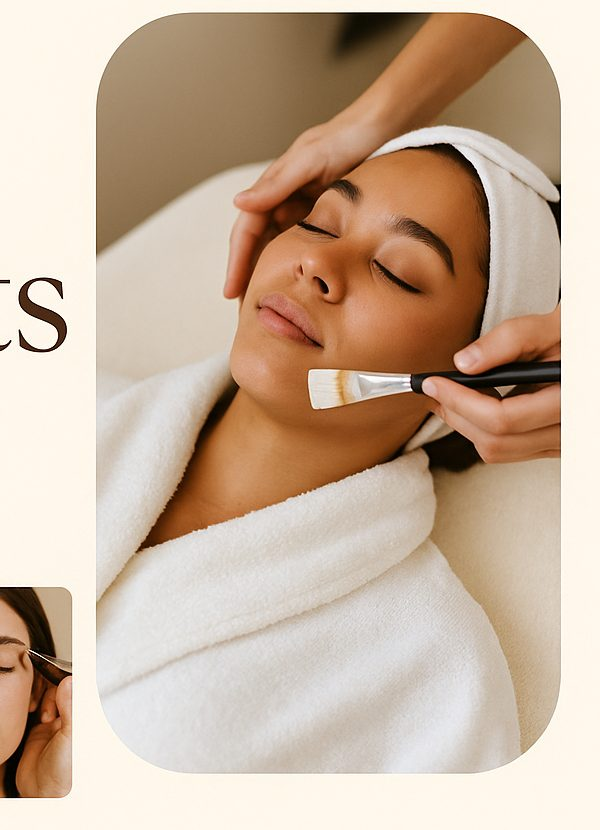
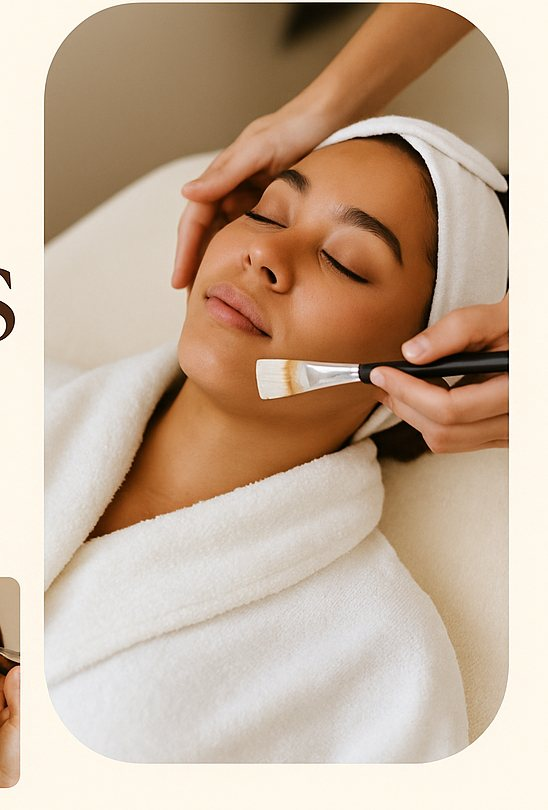
fix(salon): word spacing, preset photography in heroes, tighter crops (#10)
- Words ran together in every headline: inline-block collapses a trailing space,
  so each word now carries a non-breaking one.
- The hero support photos were still the lead's single storefront snap; they come
  from the preset like the rest of its imagery.
- Four crops included the source render's own navigation bar or a floating card,
  which then appeared inside the built page.
- Kesim's subject and word now share one grid cell, so they actually interleave
  rather than sitting side by side.

Claude-Session: https://claude.ai/code/session_019P5K1ry6DM4vvZ84PTD6Fj

diff --git a/components/site/heroes/Kesim.tsx b/components/site/heroes/Kesim.tsx
@@ -28,34 +28,36 @@ export function Kesim({
     <section className="relative overflow-hidden" style={{ background: "var(--ground)" }}>
       <SalonNav content={content} />
 
-      <div className="relative mx-auto min-h-[74vh] w-full max-w-[1180px] px-[clamp(20px,5vw,60px)] pb-10 md:min-h-[80vh]">
-        {/* Layer 1 — the word, behind everything. */}
+      {/*
+        The interleave, in one grid cell so the word and the subject share an axis.
+        Three layers: the word, the subject on her own matching ground, then the word
+        again clipped so its lower half draws back over her body.
+      */}
+      <div className="relative mx-auto grid w-full max-w-[1180px] place-items-center px-[clamp(20px,5vw,60px)] pb-8">
         <p
           aria-hidden="true"
-          className="font-display pointer-events-none absolute inset-x-0 top-[38%] z-10 m-0 text-center leading-[0.8] tracking-[-0.03em] text-[var(--brand)] salon-word"
-          style={{ fontSize: "clamp(72px,17vw,232px)", ["--i" as string]: 0 }}
+          className="salon-word font-display pointer-events-none col-start-1 row-start-1 m-0 self-center text-center leading-[0.78] tracking-[-0.035em] text-[var(--brand)]"
+          style={{ fontSize: "clamp(64px,14.5vw,196px)", ["--i" as string]: 0 }}
         >
           {word}
         </p>
 
-        {/* Layer 2 — the subject, on her own matching ground. */}
         {/* eslint-disable-next-line @next/next/no-img-element */}
         <img
           src={image.src}
           alt={image.alt}
-          className="salon-word relative z-20 mx-auto block h-[52vh] w-auto object-contain object-bottom md:h-[62vh]"
+          className="salon-word col-start-1 row-start-1 block h-[54vh] w-auto self-end object-contain md:h-[66vh]"
           style={{ ["--i" as string]: 2 }}
           loading="eager"
           decoding="async"
         />
 
-        {/* Layer 3 — the same word again, clipped so its lower half draws over her body. */}
         <p
           aria-hidden="true"
-          className="font-display pointer-events-none absolute inset-x-0 top-[38%] z-30 m-0 text-center leading-[0.8] tracking-[-0.03em] text-[var(--brand)] salon-word"
+          className="salon-word font-display pointer-events-none col-start-1 row-start-1 m-0 self-center text-center leading-[0.78] tracking-[-0.035em] text-[var(--brand)]"
           style={{
-            fontSize: "clamp(72px,17vw,232px)",
-            clipPath: "inset(46% 0 0 0)",
+            fontSize: "clamp(64px,14.5vw,196px)",
+            clipPath: "inset(52% 0 0 0)",
             ["--i" as string]: 0,
           }}
         >
@@ -63,17 +65,20 @@ export function Kesim({
         </p>
 
         <p
-          className="font-display absolute inset-x-0 top-[66%] z-40 m-0 text-center text-[clamp(13px,2.2vw,26px)] tracking-[0.42em] salon-word"
+          className="salon-word font-display col-start-1 row-start-1 m-0 translate-y-[26%] self-center text-center text-[clamp(12px,1.9vw,22px)] tracking-[0.46em]"
           style={{ ["--i" as string]: 4 }}
         >
-          {section.subline}
+          SALON
         </p>
       </div>
 
       <div className="border-line relative z-40 mx-auto flex max-w-[1180px] flex-wrap items-center justify-between gap-6 border-t px-[clamp(20px,5vw,60px)] py-6">
-        <div className="flex flex-col gap-2">
-          <OpenNow content={content} now={now} />
-          <RatingLine content={content} />
+        <div className="flex max-w-[46ch] flex-col gap-2">
+          <p className="text-ink-soft m-0 text-[14px] leading-relaxed">{section.subline}</p>
+          <div className="mt-1 flex flex-wrap items-center gap-x-5 gap-y-1">
+            <OpenNow content={content} now={now} />
+            <RatingLine content={content} />
+          </div>
         </div>
         <HeroActions content={content} />
       </div>

diff --git a/components/site/heroes/Kemer.tsx b/components/site/heroes/Kemer.tsx
@@ -23,8 +23,7 @@ export function Kemer({
   const image = stock ? { src: stock.hero, alt: stock.heroAlt } : section.image;
   const words = section.headline.split(/\s+/);
   const split = Math.max(1, Math.ceil(words.length / 2));
-  const gallery = content.sections.find((s) => s.type === "gallery");
-  const extras = gallery ? gallery.images.slice(0, 2) : [];
+  const extras = (stock?.tiles ?? []).slice(0, 2);
 
   return (
     <section className="relative overflow-hidden" style={{ background: "var(--ground)" }}>
@@ -89,8 +88,8 @@ export function Kemer({
           {extras[0] ? (
             /* eslint-disable-next-line @next/next/no-img-element */
             <img
-              src={extras[0].src}
-              alt={extras[0].alt}
+              src={extras[0]}
+              alt=""
               className="salon-word rounded-edge absolute -bottom-4 -left-2 hidden h-[168px] w-[188px] object-cover shadow-[0_18px_44px_rgba(45,20,10,.13)] sm:block"
               style={{ ["--i" as string]: 4 }}
               loading="lazy"

diff --git a/components/site/heroes/Sade.tsx b/components/site/heroes/Sade.tsx
@@ -20,8 +20,7 @@ export function Sade({
 }) {
   const stock = presetFor(content).stock;
   const image = stock ? { src: stock.hero, alt: stock.heroAlt } : section.image;
-  const gallery = content.sections.find((s) => s.type === "gallery");
-  const strip = gallery ? gallery.images.slice(0, 3) : [];
+  const strip = (stock?.tiles ?? []).slice(0, 3);
 
   return (
     <section className="relative" style={{ background: "var(--ground)" }}>
@@ -60,9 +59,9 @@ export function Sade({
               {strip.map((image, index) => (
                 /* eslint-disable-next-line @next/next/no-img-element */
                 <img
-                  key={image.src + index}
-                  src={image.src}
-                  alt={image.alt}
+                  key={image + index}
+                  src={image}
+                  alt=""
                   className="salon-word rounded-edge h-20 w-20 object-cover sm:h-24 sm:w-24"
                   style={{ ["--i" as string]: 8 + index }}
                   loading="lazy"

diff --git a/components/site/heroes/shared.tsx b/components/site/heroes/shared.tsx
@@ -13,7 +13,8 @@ export function Words({ text, className = "" }: { text: string; className?: stri
           className={`salon-word ${className}`}
           style={{ ["--i" as string]: index }}
         >
-          {word}{" "}
+          {word}
+          {index < text.split(/\s+/).length - 1 ? "\u00a0" : ""}
         </span>
       ))}
     </>
